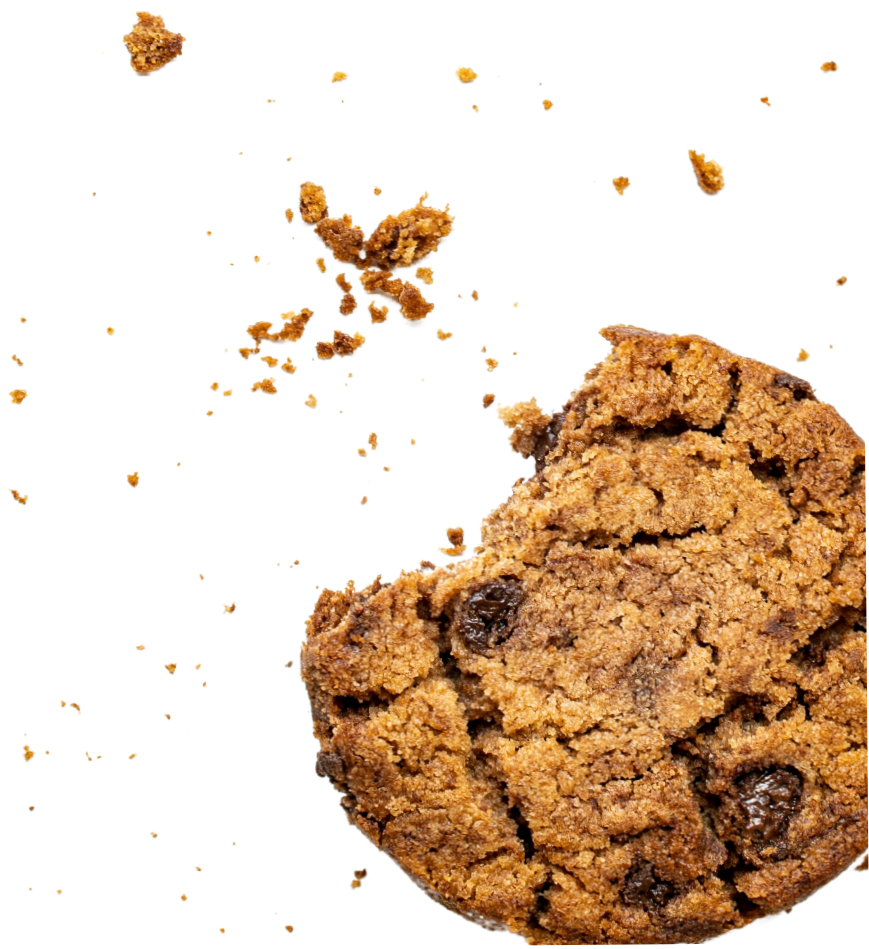
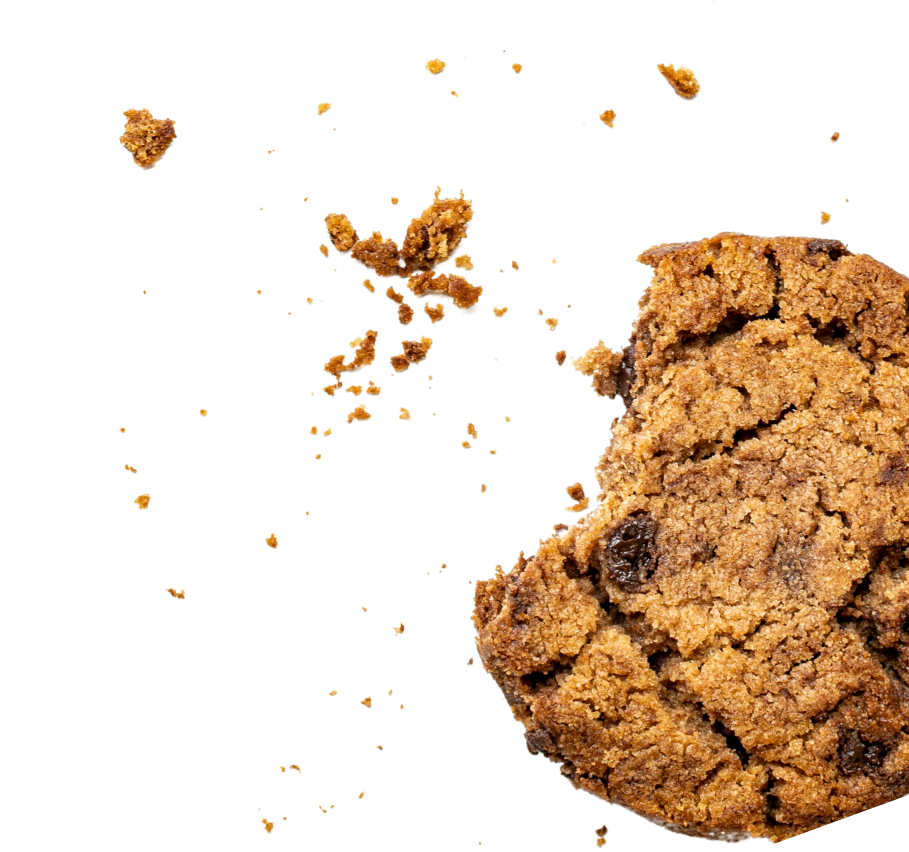
created js functionality, scroll on page, currency change button

diff --git a/index.html b/index.html
@@ -8,6 +8,7 @@
 <body>
 
 <main class="main">
+    <div class="currency" title="изменить валюту" id="change-currency">$</div>
     <header class="header">
         <div class="container">
             <div class="logo">
@@ -16,13 +17,13 @@
             <nav class="menu">
                 <ul class="menu-list">
                     <li class="menu-item">
-                        <a href="#">Каталог</a>
+                        <a data-link="products">Каталог</a>
                     </li>
                     <li class="menu-item">
-                        <a href="#">О нас</a>
+                        <a data-link="love">О нас</a>
                     </li>
                     <li class="menu-item">
-                        <a href="#">Оформление заказа</a>
+                        <a data-link="order">Оформление заказа</a>
                     </li>
                 </ul>
             </nav>
@@ -40,14 +41,14 @@
                     чистый мёд и отборная мука. Мы тщательно отбираем каждый компонент премиального печенья, стремясь
                     подарить вам истинное кулинарное наслаждение.</p>
                 <div class="main-action">
-                    <button class="button">Заказать</button>
+                    <button class="button" id="main-action-button">Заказать</button>
                 </div>
             </div>
             <img src="images/cookie.png" alt="Cookie" class="main-image">
         </div>
     </section>
 
-    <section class="products">
+    <section class="products" id="products">
         <div class="container">
             <img src="images/line2.png" alt="line2" class="line2">
             <div class="common-title">Выберите печенье</div>
@@ -64,7 +65,7 @@
                         </div>
                         <div class="products-item-extra">
                             <div class="products-item-info">
-                                <div class="products-item-price">20 $</div>
+                                <div class="products-item-price" data-base-price="20">20 $</div>
                                 <div class="products-item-weight">2шт./ 200гр.</div>
                             </div>
                             <button class="button violet-button">Заказать</button>
@@ -83,7 +84,7 @@
                         </div>
                         <div class="products-item-extra">
                             <div class="products-item-info">
-                                <div class="products-item-price">24 $</div>
+                                <div class="products-item-price" data-base-price="24">24 $</div>
                                 <div class="products-item-weight">2шт./ 200гр.</div>
                             </div>
                             <button class="button violet-button">Заказать</button>
@@ -102,7 +103,7 @@
                         </div>
                         <div class="products-item-extra">
                             <div class="products-item-info">
-                                <div class="products-item-price">18 $</div>
+                                <div class="products-item-price" data-base-price="18">18 $</div>
                                 <div class="products-item-weight">2шт./ 200гр.</div>
                             </div>
                             <button class="button violet-button">Заказать</button>
@@ -121,7 +122,7 @@
                         </div>
                         <div class="products-item-extra">
                             <div class="products-item-info">
-                                <div class="products-item-price">24 $</div>
+                                <div class="products-item-price" data-base-price="24">24 $</div>
                                 <div class="products-item-weight">2шт./ 200гр.</div>
                             </div>
                             <button class="button violet-button">Заказать</button>
@@ -140,7 +141,7 @@
                         </div>
                         <div class="products-item-extra">
                             <div class="products-item-info">
-                                <div class="products-item-price">20 $</div>
+                                <div class="products-item-price" data-base-price="20">20 $</div>
                                 <div class="products-item-weight">2шт./ 200гр.</div>
                             </div>
                             <button class="button violet-button">Заказать</button>
@@ -159,8 +160,119 @@
                         </div>
                         <div class="products-item-extra">
                             <div class="products-item-info">
-                                <div class="products-item-price">18 $</div>
+                                <div class="products-item-price" data-base-price="18">18 $</div>
                                 <div class="products-item-weight">2шт./ 200гр.</div>
+                            </div>
+                            <button class="button violet-button">Заказать</button>
+                        </div>
+                    </div>
+                </div>
+                <div class="products-item">
+                    <div class="products-item-image">
+                        <img src="images/7.png" alt="Product">
+                    </div>
+                    <div class="products-item-details">
+                        <div class="products-item-tittle">Ассорти фирменного печенья</div>
+                        <div class="products-item-text">Зачем выбирать один, когда можно получить их все? Наш
+                            классический ассортимент печенья включает в себя по одному из четырёх оригинальных вкусов
+                            печенья.
+                        </div>
+                        <div class="products-item-extra">
+                            <div class="products-item-info">
+                                <div class="products-item-price" data-base-price="36">36 $</div>
+                                <div class="products-item-weight">4шт./ 400гр.</div>
+                            </div>
+                            <button class="button violet-button">Заказать</button>
+                        </div>
+                    </div>
+                </div>
+                <div class="products-item">
+                    <div class="products-item-image">
+                        <img src="images/8.png" alt="Product">
+                    </div>
+                    <div class="products-item-details">
+                        <div class="products-item-tittle">Лимонное печенье</div>
+                        <div class="products-item-text">Весна уже не за горами, но нам не терпелось подарить вам немного
+                            солнечного света: наше первое лимонное печенье. Это лакомство жевательное, лимонное, не
+                            слишком сладкое и даже немного… освежающее?
+                        </div>
+                        <div class="products-item-extra">
+                            <div class="products-item-info">
+                                <div class="products-item-price" data-base-price="33">33 $</div>
+                                <div class="products-item-weight">4шт./ 400гр.</div>
+                            </div>
+                            <button class="button violet-button">Заказать</button>
+                        </div>
+                    </div>
+                </div>
+                <div class="products-item">
+                    <div class="products-item-image">
+                        <img src="images/9.png" alt="Product">
+                    </div>
+                    <div class="products-item-details">
+                        <div class="products-item-tittle">Любители шоколада</div>
+                        <div class="products-item-text">Вам больше не нужно выбирать фаворитов. Мы сделали этот набор
+                            для всех людей, которые действительно любят шоколад…
+                        </div>
+                        <div class="products-item-extra">
+                            <div class="products-item-info">
+                                <div class="products-item-price" data-base-price="38">38 $</div>
+                                <div class="products-item-weight">4шт./ 400гр.</div>
+                            </div>
+                            <button class="button violet-button">Заказать</button>
+                        </div>
+                    </div>
+                </div>
+                <div class="products-item">
+                    <div class="products-item-image">
+                        <img src="images/10.png" alt="Product">
+                    </div>
+                    <div class="products-item-details">
+                        <div class="products-item-tittle">Карамель и кокос</div>
+                        <div class="products-item-text">Побалуйте себя кокосовым, маслянистым, карамельным печеньем,
+                            которое обладает невиданным ранее вкусом и текстурой. Наслаждение круглый год.
+                        </div>
+                        <div class="products-item-extra">
+                            <div class="products-item-info">
+                                <div class="products-item-price" data-base-price="33">33 $</div>
+                                <div class="products-item-weight">4шт./ 400гр.</div>
+                            </div>
+                            <button class="button violet-button">Заказать</button>
+                        </div>
+                    </div>
+                </div>
+                <div class="products-item">
+                    <div class="products-item-image">
+                        <img src="images/11.png" alt="Product">
+                    </div>
+                    <div class="products-item-details">
+                        <div class="products-item-tittle">Веганское с шоколадной крошкой</div>
+                        <div class="products-item-text">Наше веганское безглютеновое печенье содержит кусочки хрустящих
+                            грецких орехов и полусладкую веганскую шоколадную стружку.
+                        </div>
+                        <div class="products-item-extra">
+                            <div class="products-item-info">
+                                <div class="products-item-price" data-base-price="39">39 $</div>
+                                <div class="products-item-weight">4шт./ 400гр.</div>
+                            </div>
+                            <button class="button violet-button">Заказать</button>
+                        </div>
+                    </div>
+                </div>
+                <div class="products-item">
+                    <div class="products-item-image">
+                        <img src="images/12.png" alt="Product">
+                    </div>
+                    <div class="products-item-details">
+                        <div class="products-item-tittle">Крем-брюле ореховое печенье</div>
+                        <div class="products-item-text">Используя уникальную смесь ингредиентов, мы создали печенье с
+                            кусочками крем-брюле и миндальными орехами, которое обещает неповторимые гастрономические
+                            ощущения. Каждый кусочек обладает хрустящей корочкой и тает во рту.
+                        </div>
+                        <div class="products-item-extra">
+                            <div class="products-item-info">
+                                <div class="products-item-price" data-base-price="35">35 $</div>
+                                <div class="products-item-weight">4шт./ 400гр.</div>
                             </div>
                             <button class="button violet-button">Заказать</button>
                         </div>
@@ -169,10 +281,9 @@
             </div>
         </div>
     </section>
-    <section class="love">
+    <section class="love" id="love">
         <div class="container">
             <div class="common-title">Пекарня с любовью</div>
-            <img src="images/breadcrumbs.png" alt="breadcrumbs" class="order-bg-image">
             <div class="love-items">
                 <div class="love-item love-item-white">
                     <div class="love-item-title">Приготовлено с заботой, чтобы радовать вас каждый день</div>
@@ -191,10 +302,11 @@
         </div>
     </section>
 
-    <section class="order">
+    <section class="order" id="order">
         <img src="images/line3.png" alt="line2" class="line3">
         <div class="container">
             <div class="common-title">Закажите печенье</div>
+            <img src="images/breadcrumbs.png" alt="breadcrumbs" class="order-bg-image">
             <div class="order-block">
                 <div class="order-form">
                     <div class="order-form-text">Откройте для себя волшебство вкуса с нашим премиальным печеньем!
@@ -202,10 +314,10 @@
                         прямо сейчас и окунитесь в мир сладких наслаждений.
                     </div>
                     <div class="order-form-inputs">
-                        <input type="text" placeholder="Выберите печенье">
-                        <input type="text" placeholder="Ваше имя">
-                        <input type="text" placeholder="Ваш телефон">
-                        <button class="button violet-button">Оформить заказ</button>
+                        <input type="text" placeholder="Выберите печенье" id="product">
+                        <input type="text" placeholder="Ваше имя" id="name">
+                        <input type="text" placeholder="Ваш телефон" id="phone">
+                        <button class="button violet-button" id="order-action">Оформить заказ</button>
                     </div>
                 </div>
                 <div class="order-block-image">
@@ -221,5 +333,7 @@
         <div class="rights">"Все права защищены"</div>
     </footer>
 </main>
+
+<script src="scripts/script.js"></script>
 </body>
 </html>

diff --git a/scripts/script.js b/scripts/script.js
@@ -1,0 +1,63 @@
+document.getElementById("main-action-button").onclick = function () {
+    document.getElementById("products").scrollIntoView({behavior: "smooth"});
+};
+const links = document.querySelectorAll(".menu-item > a");
+for (let i = 0; i < links.length; i++) {
+    links[i].onclick = function () {
+        document.getElementById(links[i].getAttribute("data-link")).scrollIntoView({behavior: "smooth"});
+    };
+}
+const buttons = document.querySelectorAll(".products-item .button");
+for (let i = 0; i < buttons.length; i++) {
+    buttons[i].onclick = function () {
+        document.getElementById("order").scrollIntoView({behavior: "smooth"});
+    };
+}
+
+const prices = document.getElementsByClassName("products-item-price");
+document.getElementById("change-currency").onclick = function (e) {
+    const currentCurrency = e.target.innerText;
+    let newCurrency = "$";
+    let coefficient = 1;
+    if (currentCurrency === "$") {
+        newCurrency = "₽";
+        coefficient = 90;
+    } else if (currentCurrency === "₽") {
+        newCurrency = "BYN";
+        coefficient = 3;
+    } else if (currentCurrency === 'BYN') {
+        newCurrency = '€';
+        coefficient = 0.9;
+    } else if (currentCurrency === '€') {
+        newCurrency = '¥';
+        coefficient = 6.9;
+    }
+    e.target.innerText = newCurrency;
+
+    for (let i = 0; i < prices.length; i++) {
+        prices[i].innerText = +(prices[i].getAttribute("data-base-price") * coefficient).toFixed(1) + " " + newCurrency;
+    }
+}
+
+const product = document.getElementById("product");
+const name = document.getElementById("name");
+const phone = document.getElementById("phone");
+document.getElementById("order-action").onclick = function () {
+    let hasError = false;
+    [product, name, phone].forEach(item => {
+        if (!item.value) {
+            item.style.borderColor = "red";
+            hasError = true;
+        } else {
+            item.style.borderColor = "";
+        }
+    });
+
+
+    if (!hasError) {
+        [product, name, phone].forEach(item => {
+            item.value = "";
+        });
+        alert("Спасибо за заказ! Мы скоро свяжемся с Вами!")
+    }
+}

diff --git a/styles/styles.css b/styles/styles.css
@@ -64,6 +64,39 @@ body {
     overflow: hidden;
 }
 
+.currency {
+    position: fixed;
+    right: 50px;
+    bottom: 50px;
+    border: 1px solid white;
+    padding: 5px 10px;
+    height: 25px;
+    min-width: 25px;
+    border-radius: 50px;
+    text-align: center;
+    cursor: pointer;
+    line-height: 28px;
+    z-index: 1;
+    user-select: none;
+    transform: scale(1);
+    animation: pulse 2s infinite;
+}
+
+@keyframes pulse {
+    0% {
+        transform: scale(0.9);
+        box-shadow: 0 0 0 0 rgba(255, 255, 255, 0.5);
+    }
+    70% {
+        transform: scale(1);
+        box-shadow: 0 0 0 10px rgba(255, 255, 255, 0);
+    }
+    100% {
+        transform: scale(0.9);
+        box-shadow: 0 0 0 0 rgba(255, 255, 255, 0.5);
+    }
+}
+
 .header {
     padding: 40px 0;
 }
@@ -125,7 +158,7 @@ body {
 .main-image {
     position: absolute;
     top: 0;
-    right: -165px;
+    right: 0;
     z-index: -1;
 }
 
@@ -209,7 +242,7 @@ body {
 
 .love-item-white {
     background-color: white;
-    margin: 110px 80px;
+    padding: 110px 80px;
     color: #5D3427;
     box-sizing: border-box;
 }
